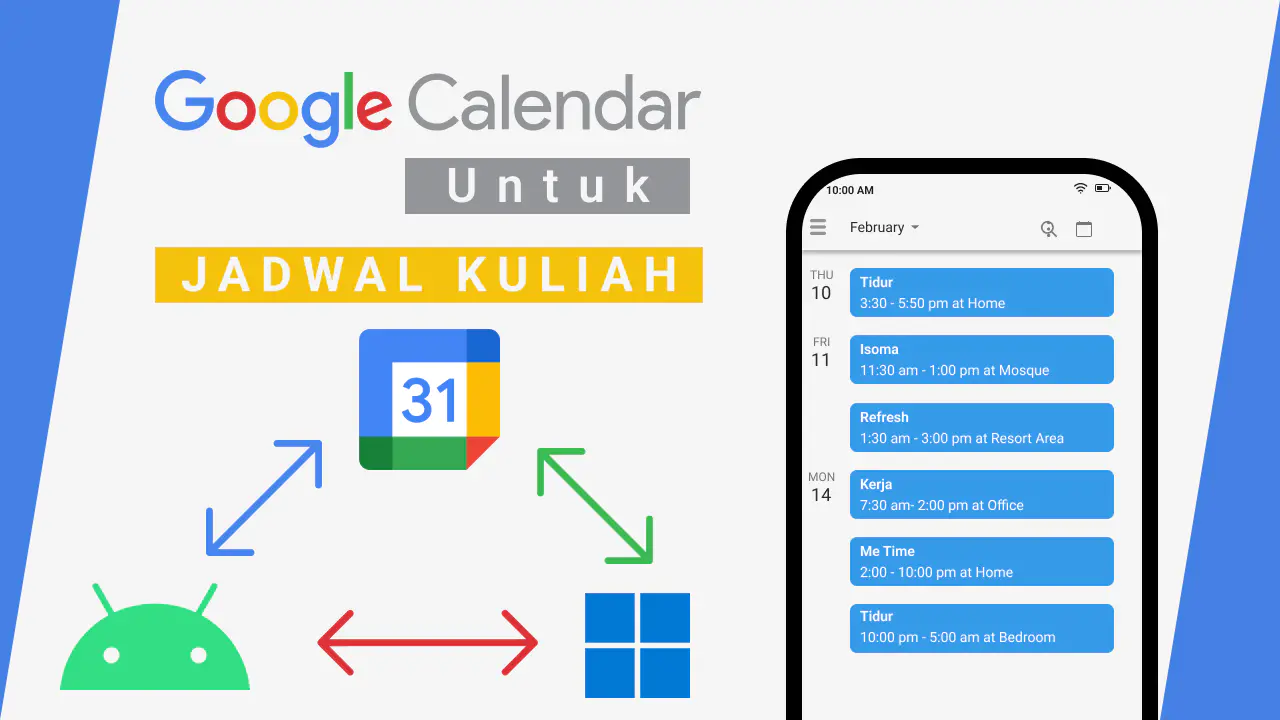
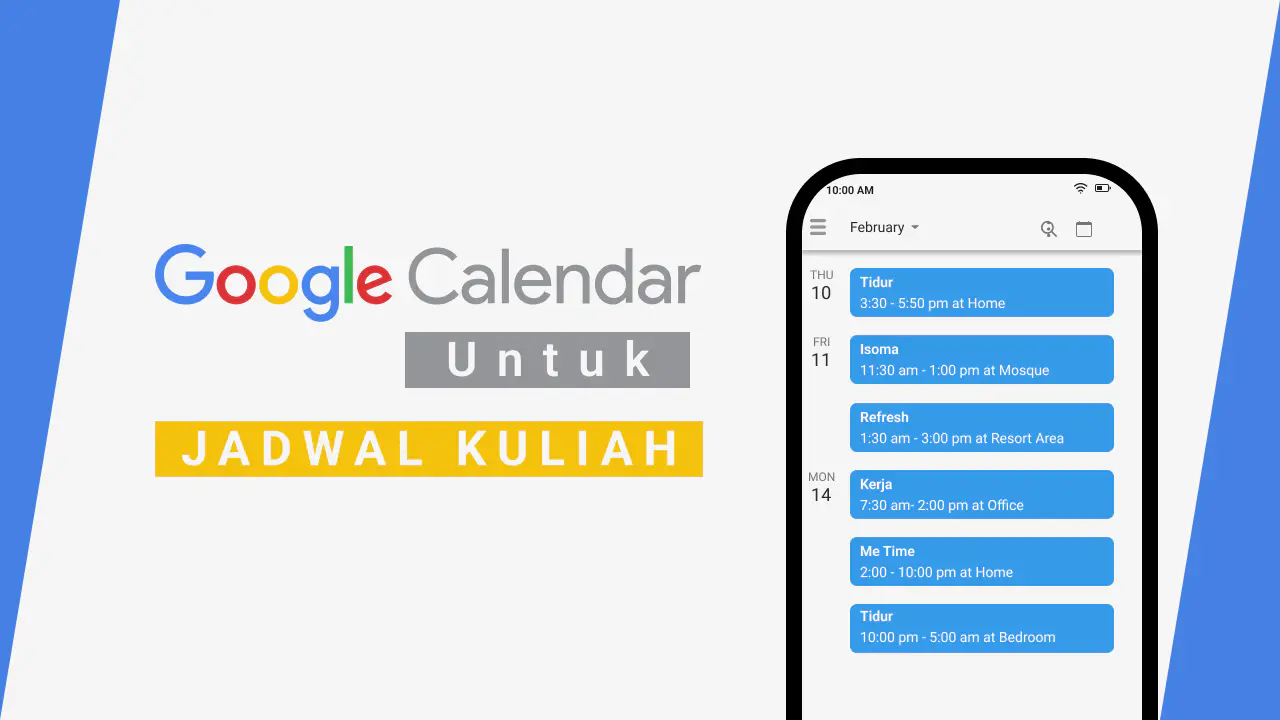
Deploy Post

diff --git a/content/google-calendar-untuk-jadwal-kuliah/index.md b/content/google-calendar-untuk-jadwal-kuliah/index.md
@@ -2,7 +2,7 @@
 title: "Google Calendar Untuk Jadwal Kuliah"
 date: 2022-02-02T09:22:10+08:00
 comments: true
-draft: true
+draft: false
 author: "Yoga"
 toc: true
 kategori: Tips
@@ -79,13 +79,3 @@ Jika sudah klik {{<scIcon class="fa fa-check">}} di keyboard kalian.
 Jika sudah, seharusnya event yang kalian tambahkan akan terlihat seperti gambar di bawah ini.
 
 ![saved-event](/google-calendar-untuk-jadwal-kuliah/img/saved-event.webp)
-
-## Integrasi di Windows
-
-
-
-
-    
-
-
-
